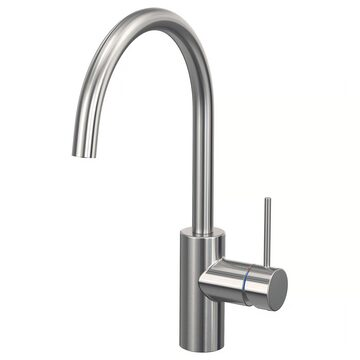
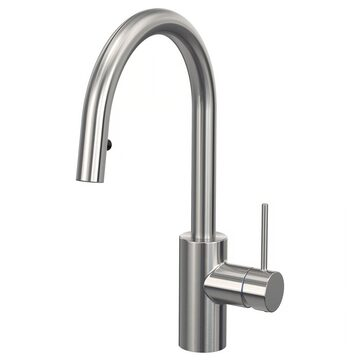
Pokój nauczycielski 16: bateria IKEA SALLSJÖN z wyciąganą wylewką, bez mikrofalówki i oświetlenia LED pod szafkami
SALLSJÖN z wyciąganą wylewką, stalowy (399 zł, promocja; 370 mm, końcówka na ok. 30 cm); zamienniki: SALLSJÖN z natryskiem,
Blanco WEGA-S II. Usunięte: TILLREDA, MITTLED, TRÅDFRI, VÅGDAL (z listy, planu i modelu 3D). Razem 39 pozycji, 36 299,14 zł.

Claude-Session: https://claude.ai/code/session_01FwNcib9nH5pwcS8mELcYCv

Changed region(s): [[0.4889, 0.0611, 0.825, 0.9778], [0.1833, 0.0, 0.5194, 0.5194], [0.4889, 0.7028, 0.5194, 0.9778]]

diff --git a/pokoj16-plan.js b/pokoj16-plan.js
@@ -53,16 +53,12 @@ const C = [
   { k: "nogi", z: "kitchen", name: "IKEA METOD noga szafki 8 cm (opakowanie 2 szt.)", dims: "4 szafki × 4 nogi = 16 szt.", sku: "705.560.67", price: 25, qty: 8, shop: IKEA, url: ip("metod-noga-szafki-70556067"), status: ["ok", "W sprzedaży, na stanie"], noDraw: true },
   { k: "an_zlew", z: "kitchen", name: "IKEA METOD szafka pod zlew, biały/Havstorp beżowy", dims: "60 × 60 cm", sku: "s49455131", price: 340, qty: 1, shop: IKEA, url: ip("metod-szafka-pod-zlew-bialy-havstorp-bezowy-s49455131"), status: ["ok", "W sprzedaży, na stanie"] },
   { k: "zlew", z: "kitchen", name: "IKEA LÅNGUDDEN zlew wpuszczany, 1 komora, stal nierdzewna", dims: "46 × 46 cm", sku: "s59157391", price: 289, qty: 1, shop: IKEA, url: ip("langudden-zlew-wpuszczany-1-komorowy-stal-nierdz-s59157391"), status: ["ok", "W sprzedaży, na stanie"], noDraw: true, alt: [{ name: "VRESJÖN 54 × 44 cm, stal", price: 1079, url: ip("vresjoen-zlew-wpuszczany-1-komora-stal-nierdz-s99425721") }] },
-  { k: "bateria", z: "kitchen", name: "IKEA SALLSJÖN bateria kuchenna z uchwytem z boku, stalowy", dims: "jednouchwytowa", sku: "706.009.04", price: 349, qty: 1, shop: IKEA, url: ip("sallsjoen-bateria-kuchenna-z-uchwytem-z-boku-stalowy-70600904"), status: ["ok", "W sprzedaży, na stanie"], noDraw: true, alt: [{ name: "LAGAN, chrom (najtańsza)", price: 119, url: ip("lagan-bateria-kuchenna-chrom-10085027") }] },
+  { k: "bateria", z: "kitchen", name: "IKEA SALLSJÖN bateria z wyciąganą wylewką, stalowy", dims: "jednouchwytowa, wysokość 370 mm (mieści się pod szafkami wiszącymi), końcówka wyciągana na ok. 30 cm, obrotowa wylewka 120°, otwór 34–37 mm", sku: "906.089.37", price: 399, qty: 1, shop: IKEA, url: ip("sallsjoen-bateria-z-wyciagana-wylewka-stalowy-90608937"), avail: "28.11: w sprzedaży, na stanie; cena promocyjna (regularna 449 zł)", status: ["ok", "W sprzedaży, na stanie"], alt: [{ name: "IKEA SALLSJÖN z wysuwaną wylewką i natryskiem, stalowy (480 mm)", price: 699, url: ip("sallsjoen-bateria-z-wysuwana-wylewka-natrysk-stalowy-50604559") }, { name: "Blanco WEGA-S II z wyciąganą wylewką, chrom (Morele.net)", price: 620.42, url: "https://www.morele.net/bateria-kuchenna-blanco-bateria-wega-s-ii-chromowana-z-wyciagana-wylewka-13479101/" }] },
   { k: "blat", z: "kitchen", name: "IKEA EKBACKEN blat, efekt jasnego dębu / laminat", dims: "246 × 63,5 × 2,8 cm, docinany na 240", sku: "506.338.11", price: 299, qty: 1, shop: IKEA, url: ip("ekbacken-blat-efekt-jasnego-debu-laminat-50633811"), status: ["ok", "W sprzedaży, na stanie"] },
   { k: "panel_sc", z: "kitchen", name: "IKEA LYSEKIL panel ścienny dwustronny, matowy biały / jasnoszary imitacja betonu (między blatem a szafkami wiszącymi)", dims: "119,6 × 55 × 0,2 cm, 2 szt. na 240 cm; przyklejany do ściany (klej montażowy osobno), można przyciąć; szafki wiszące od 145 cm", sku: "106.229.23", price: 199, qty: 2, shop: IKEA, url: ip("lysekil-panel-scienny-2str-jasnoszary-imitacja-betonu-matowy-bialy-10622923"), avail: "28.11: w sprzedaży, na stanie", status: ["ok", "Strona matowa biała do frontów Havstorp; druga strona: beton"], noDraw: true },
   { k: "an_wiszaca", z: "kitchen", name: "IKEA METOD szafka ścienna z półkami, 2 drzwi, biały/Havstorp beżowy", dims: "60 × 100 cm", sku: "s89461328", price: 405, qty: 4, shop: IKEA, url: ip("metod-szafka-scienna-z-polkami-2-drzwi-bialy-havstorp-bezowy-s89461328"), status: ["ok", "W sprzedaży, na stanie"] },
   { k: "cokol", z: "kitchen", name: "IKEA HAVSTORP cokół, beżowy", dims: "220 × 8 cm, 2 szt. na 240 cm", sku: "404.752.56", price: 95, qty: 2, shop: IKEA, url: ip("havstorp-cokol-bezowy-40475256"), status: ["ok", "W sprzedaży, na stanie"], noDraw: true },
   { k: "panel_m", z: "kitchen", name: "IKEA HAVSTORP panel maskujący, beżowy (bok szafki z szufladami)", dims: "39 × 86 cm", sku: "504.752.51", price: 110, qty: 1, shop: IKEA, url: ip("havstorp-panel-maskujacy-bezowy-50475251"), status: ["ok", "W sprzedaży, na stanie"], noDraw: true },
-  { k: "led", z: "kitchen", name: "IKEA MITTLED listwa LED pod szafki, ściemniana, biały", dims: "60 cm", sku: "605.285.84", price: 65, qty: 4, shop: IKEA, url: ip("mittled-listwa-oswietleniowa-led-do-bl-kuch-mozna-przyciemniac-bialy-60528584"), status: ["ok", "W sprzedaży, na stanie"], noDraw: true },
-  { k: "led_zas", z: "kitchen", name: "IKEA TRÅDFRI zasilacz 30 W do oświetlenia LED", dims: "do 9 listew", sku: "603.426.56", price: 130, qty: 1, shop: IKEA, url: ip("tradfri-zasilacz-do-sterowania-bezprzewod-smart-szary-60342656"), status: ["warn", "Dobrać przewód zasilający w sklepie"], noDraw: true },
-  { k: "led_kabel", z: "kitchen", name: "IKEA VÅGDAL przewód połączeniowy, biały", dims: "3,5 m", sku: "704.636.00", price: 15, qty: 2, shop: IKEA, url: ip("vagdal-przewod-polaczeniowy-bialy-70463600"), status: ["ok", "W sprzedaży, na stanie"], noDraw: true },
-  { k: "mikrofala", z: "kitchen", name: "IKEA TILLREDA kuchenka mikrofalowa wolnostojąca, biały", dims: "20 l, 700 W", sku: "504.867.92", price: 249, qty: 1, shop: IKEA, url: ip("tillreda-kuchenka-mikrofalowa-bialy-50486792"), status: ["ok", "W sprzedaży, na stanie"] },
   { k: "lodowka", z: "kitchen", name: "Lodówka wolnostojąca, szer. 60 cm", dims: "60 × 65 × ok. 220 cm, szara, zawiasy po stronie aneksu", qty: 1, status: ["mute", "Nie kupujemy w tym zakupie"], outside: true },
   { k: "stol_jad", z: "dining", name: "IKEA MITTZON stół konferencyjny, okleina dębowa / czarny, 140 × 68 cm, jednolity blat", dims: "140 × 68 × 75 cm, ten sam model co stół roboczy; 4 szt. zestawione w blok 280 × 136 cm, 8 miejsc (bez krzeseł na szczytach)", sku: "s39513952", price: 649, qty: 4, shop: IKEA, url: ip("mittzon-stol-konferencyjny-okl-deb-czarny-s39513952"), status: ["ok", "W sprzedaży, na stanie"] },
   { k: "krz_jad", z: "dining", name: "IKEA LÄKTARE krzesło konferencyjne, średnioszary / biały", dims: "55 × 50 × 84 cm, podłokietniki, siedzisko z okleiną brzozową, pokrycie Gunnared do prania, sztaplowane (do 5 szt.), 8 przy stole jadalni", sku: "s49503250", price: 299, qty: 8, shop: IKEA, url: ip("laektare-krzeslo-konferencyjne-srednioszary-bialy-s49503250"), status: ["ok", "W jadalni, w sprzedaży, na stanie"] },
@@ -134,7 +130,6 @@ add("an_polki", { x: 780, y: 0, w: 60, d: 60, h: 86, kind: "box", label: "Półk
 add("an_zlew", { x: 840, y: 0, w: 60, d: 60, h: 86, kind: "box", label: "Zlew" });
 add("blat", { x: 660, y: 0, w: 240, d: 63, h: 4, z: 86, kind: "box", hidePlan: true });
 add("panel_sc", { x: 660, y: 0, w: 240, d: 0.6, h: 55, z: 90, kind: "box", hidePlan: true });
-add("mikrofala", { x: 728, y: 4, w: 45, d: 34, h: 26, z: 90, kind: "box", ontop: true });
 [660, 720, 780, 840].forEach((x) => add("an_wiszaca", { x, y: 0, w: 60, d: 37, h: 100, z: 145, kind: "box", above: true }));
 add("stol_pracy", { x: 240, y: 252, w: 140, d: 68, h: 75, kind: "table", label: "Stół roboczy · 8" });
 add("stol_pracy", { x: 380, y: 252, w: 140, d: 68, h: 75, kind: "table" });
@@ -175,8 +170,8 @@ const INST = [
   { t: "p230", x: 500, y: 0, z: 110, txt: "Stół do kompletowania TROTTEN, nad blatem", spec: "Gniazdo podwójne 230 V (bindownica, zszywacz, skaner)" },
   { t: "p230", x: 480, y: 0, z: 30, txt: "Stół do kompletowania, pod blatem", spec: "Gniazdo podwójne 230 V (zasilacze laptopów w szafce, niszczarka)" },
   { t: "p230", x: 630, y: 0, z: 30, txt: "Lodówka, za lodówką", spec: "Gniazdo podwójne 230 V, osobny obwód (płaskie, żeby lodówka stała blisko ściany)" },
-  { t: "p230", x: 680, y: 0, z: 110, txt: "Aneks, nad blatem (mikrofalówka)", spec: "Gniazdo podwójne 230 V, obwód kuchenny 16 A" },
-  { t: "p230", x: 750, y: 0, z: 110, txt: "Aneks, nad blatem (mikrofalówka)", spec: "Gniazdo podwójne 230 V, obwód kuchenny" },
+  { t: "p230", x: 680, y: 0, z: 110, txt: "Aneks, nad blatem", spec: "Gniazdo podwójne 230 V, obwód kuchenny 16 A" },
+  { t: "p230", x: 750, y: 0, z: 110, txt: "Aneks, nad blatem", spec: "Gniazdo podwójne 230 V, obwód kuchenny" },
   { t: "p230", x: 810, y: 0, z: 30, txt: "Rezerwa w szafce aneksu (miejsce po zmywarce)", spec: "Gniazdo podwójne 230 V, osobny obwód 16 A" },
   { t: "p230", x: 0, y: 335, z: 95, txt: "Biurko 1, nad blatem", spec: "Gniazdo podwójne 230 V na ścianie nad blatem (laptop, lampka, ładowarka)" },
   { t: "p230", x: 0, y: 435, z: 95, txt: "Biurko 2, nad blatem", spec: "Gniazdo podwójne 230 V na ścianie nad blatem (laptop, lampka, ładowarka)" },
@@ -606,7 +601,7 @@ function drawElev(key) {
   txt(elev, W.len, -22, W.right, "wtxt", { "text-anchor": "end" });
   txt(elev, W.len / 2, -22, W.title, "lbl", { "text-anchor": "middle" });
   const notes = {
-    N: "Przy szafach skrytkowych tablica na klucze do sal (ok. 70 × 50 cm). Drzwi otwierają się na zewnątrz, w prawo. Nad bizhubem i stołem do kompletowania tablica magnetyczna ok. 200 × 100 cm (dół 165 cm). Tuż przy drzwiach ekran dotykowy 27″ zawieszony w pionie na stałym płaskim uchwycie 1,2 cm od ściany (dół 100 cm, góra 161 cm), stabilny przy dotyku, komputer Lenovo M70s stoi na regale EKET pod stołem do kompletowania, do ekranu biegną w listwie kabel DisplayPort i przedłużacz USB (po 5 m). Obok bizhub C450i z finiszerem FS-539SD; po prawej 34 cm zapasu na tacę boczną, w tym miejscu niszczarka Fellowes 99Ci (64 cm, poniżej tacy). Stół do kompletowania TROTTEN 120 × 70 z elektryczną regulacją (ok. 95 cm), pod nim regał EKET z 4 otwartymi przegrodami na nóżkach (80 cm) na papier, tonery i laptopy. Lodówka 60 cm oddziela strefę druku od aneksu 240 cm. Na blacie mikrofalówka; między blatem a szafkami wiszącymi panel LYSEKIL (matowy biały, 55 cm); szafki wiszące 4 × 60, dół 145 cm, góra 245 cm.",
+    N: "Przy szafach skrytkowych tablica na klucze do sal (ok. 70 × 50 cm). Drzwi otwierają się na zewnątrz, w prawo. Nad bizhubem i stołem do kompletowania tablica magnetyczna ok. 200 × 100 cm (dół 165 cm). Tuż przy drzwiach ekran dotykowy 27″ zawieszony w pionie na stałym płaskim uchwycie 1,2 cm od ściany (dół 100 cm, góra 161 cm), stabilny przy dotyku, komputer Lenovo M70s stoi na regale EKET pod stołem do kompletowania, do ekranu biegną w listwie kabel DisplayPort i przedłużacz USB (po 5 m). Obok bizhub C450i z finiszerem FS-539SD; po prawej 34 cm zapasu na tacę boczną, w tym miejscu niszczarka Fellowes 99Ci (64 cm, poniżej tacy). Stół do kompletowania TROTTEN 120 × 70 z elektryczną regulacją (ok. 95 cm), pod nim regał EKET z 4 otwartymi przegrodami na nóżkach (80 cm) na papier, tonery i laptopy. Lodówka 60 cm oddziela strefę druku od aneksu 240 cm. między blatem a szafkami wiszącymi panel LYSEKIL (matowy biały, 55 cm); szafki wiszące 4 × 60, dół 145 cm, góra 245 cm.",
     W: "Nad biurkami tablica magnetyczna ok. 200 × 100 cm z kartkami (dół 110 cm). Dwa biurka BOLLPOJKE 90 × 55 cm (sosna, biała rama), na każdym lampa TERTIAL i podstawka STENERIK pod laptop; przy każdym biurku podwójne gniazdo 230 V na ścianie (95 cm). Ekrany akustyczne MITTZON 70 × 72 cm na zaciskach: jeden między szafami skrytkowymi a biurkiem 1, drugi między biurkami. Od biurka 2 do Xeroxa 52 cm odstępu. Ścianka MITTZON na kółkach (dół ekran akustyczny, góra tablica) jest wsunięta między stół do kompletowania a lodówkę i oddziela strefę druku od aneksu. Obok biurek Xerox B7130 (77 cm, bez podstawy KSW: na podłodze albo na własnej podstawie szkoły, do ustalenia). Trzy szafy skrytkowe KAROL 90 × 40 × 185 cm, po 18 skrytek (3 × 6), razem 54.",
     S: "Okna we wnękach: parapet na 90 cm, głębokość wnęki ok. 40 cm, na parapetach doniczki; na filarach między oknami małe tablice ogłoszeń (dół 145 cm), a nad nimi wysoko wiszące doniczki; w narożniku przy krzesłach tablica 80 × 60 cm. Sofy EKTORP (88 cm) poniżej parapetu, przed grzejnikami min. 15 cm odstępu.",
     E: "Ściana za jadalnią: białe pole pod obraz z rzutnika (ok. 260 × 146 cm, od 190 do 336 cm) na osi stołu, po obu bokach wąskie pasy roślin z długimi zwisającymi pędami. W narożniku przy oknie 4 dodatkowe krzesła LÄKTARE (2 stosy po 2), nad nimi na filarze tablica ogłoszeń. Ściany w ciepłym beżu, sala ok. 450 cm wysokości.",
@@ -666,7 +661,7 @@ function costTable() {
     <div><dt>W tym IKEA</dt><dd>${fmt(sumIkea)}<small>jedno zamówienie, można poprosić IKEA dla Firm o fakturę i montaż</small></dd></div>
     <div><dt>W tym inne sklepy</dt><dd>${fmt(sum - sumIkea)}<small>szafy skrytkowe (Kupmeble), komputer (AMSO Wrocław), ekran, uchwyt, kable i niszczarka (Morele), tablice magnetyczne i korkowe (Castorama)</small></dd></div>
     <div><dt>W tym centrum dowodzenia</dt><dd>${fmt(C.filter((c) => c.z === "cmd").reduce((s, c) => s + c.price * c.qty, 0))}<small>ekran dotykowy 27″ Full HD na stałym uchwycie, komputer poleasingowy Lenovo M70s, kable DisplayPort, USB i HDMI</small></dd></div>
-    <div><dt>W tym aneks kuchenny</dt><dd>${fmt(kitchen)}<small>4 szafki dolne i 4 wiszące, blat 240, zlew, bateria, LED, mikrofalówka</small></dd></div>`;
+    <div><dt>W tym aneks kuchenny</dt><dd>${fmt(kitchen)}<small>4 szafki dolne i 4 wiszące, blat 240 z panelem LYSEKIL, zlew, bateria z wyciąganą wylewką</small></dd></div>`;
 }
 costTable();
 
@@ -1413,7 +1408,6 @@ I.forEach((it) => {
   }
   if (it.k === "przegroda") { m.position.y += 0.01; [it.x + 8, it.x + 44].forEach((bx) => { box(bx, it.y - 1.5, it.z - 4, 4, it.d + 3, 5, blackMetal, furniture, null, false); }); }
   if (it.k === "an_zlew") { box(it.x + 10, it.y + 12, 89.6, 42, 36, 1, mat(0xb8c0c3, { metalness: 0.6, roughness: 0.3 }), furniture, it, false); const tap = new THREE.Mesh(new THREE.CylinderGeometry(0.014, 0.018, 0.3, 16), steel); tap.position.copy(P(it.x + 31.5, it.y + 6, 105)); tap.castShadow = true; furniture.add(tap); const sp = new THREE.Mesh(new THREE.TorusGeometry(0.07, 0.011, 10, 24, Math.PI), steel); sp.position.copy(P(it.x + 31.5, it.y + 13, 120)); sp.rotation.y = Math.PI / 2; furniture.add(sp); }
-  if (it.k === "an_wiszaca") box(it.x, it.y + it.d - 6, it.z - 1, it.w, 5, 1, mat(0xfff3cf, { emissive: 0xffe9b0, emissiveIntensity: 0.9 }), furniture, null, false);
 
 });
 // ramki gniazd na ścianach (punkty instalacyjne)

diff --git a/pokoj16-data.js b/pokoj16-data.js
@@ -281,18 +281,23 @@ export const pokoj16 = {
     {
       "id": "bateria",
       "grupa": "Aneks kuchenny (lodówka i zmywarka poza zakupem)",
-      "rodzaj": "Bateria kuchenna",
-      "nazwa": "IKEA SALLSJÖN bateria kuchenna z uchwytem z boku, stalowy",
+      "rodzaj": "Bateria kuchenna z wyciąganą wylewką",
+      "nazwa": "IKEA SALLSJÖN bateria z wyciąganą wylewką, stalowy",
       "ilosc": 1,
-      "cena_szt": 349,
+      "cena_szt": 399,
       "sklep": "IKEA (Wrocław Bielany / ikea.com/pl)",
-      "link": "https://www.ikea.com/pl/pl/p/sallsjoen-bateria-kuchenna-z-uchwytem-z-boku-stalowy-70600904/",
-      "uwagi": "W sprzedaży, na stanie",
+      "link": "https://www.ikea.com/pl/pl/p/sallsjoen-bateria-z-wyciagana-wylewka-stalowy-90608937/",
+      "uwagi": "Końcówkę wyciąga się na ok. 30 cm; wysokość 370 mm, mieści się pod szafkami wiszącymi; cena promocyjna z 28.11.2026 (regularna 449 zł)",
       "zamienniki": [
         {
-          "nazwa": "LAGAN, chrom (najtańsza)",
-          "cena": 119,
-          "link": "https://www.ikea.com/pl/pl/p/lagan-bateria-kuchenna-chrom-10085027/"
+          "nazwa": "IKEA SALLSJÖN z wysuwaną wylewką i natryskiem, stalowy (480 mm)",
+          "cena": 699,
+          "link": "https://www.ikea.com/pl/pl/p/sallsjoen-bateria-z-wysuwana-wylewka-natrysk-stalowy-50604559/"
+        },
+        {
+          "nazwa": "Blanco WEGA-S II z wyciąganą wylewką, chrom (Morele.net)",
+          "cena": 620.42,
+          "link": "https://www.morele.net/bateria-kuchenna-blanco-bateria-wega-s-ii-chromowana-z-wyciagana-wylewka-13479101/"
         }
       ],
       "zdjecie": "assets/pokoj16/bateria.jpg"
@@ -356,54 +361,6 @@ export const pokoj16 = {
       "link": "https://www.ikea.com/pl/pl/p/havstorp-panel-maskujacy-bezowy-50475251/",
       "uwagi": "W sprzedaży, na stanie",
       "zdjecie": "assets/pokoj16/panel_m.jpg"
-    },
-    {
-      "id": "led",
-      "grupa": "Aneks kuchenny (lodówka i zmywarka poza zakupem)",
-      "rodzaj": "Listwa LED",
-      "nazwa": "IKEA MITTLED listwa LED pod szafki, ściemniana, biały",
-      "ilosc": 4,
-      "cena_szt": 65,
-      "sklep": "IKEA (Wrocław Bielany / ikea.com/pl)",
-      "link": "https://www.ikea.com/pl/pl/p/mittled-listwa-oswietleniowa-led-do-bl-kuch-mozna-przyciemniac-bialy-60528584/",
-      "uwagi": "W sprzedaży, na stanie",
-      "zdjecie": "assets/pokoj16/led.jpg"
-    },
-    {
-      "id": "led_zas",
-      "grupa": "Aneks kuchenny (lodówka i zmywarka poza zakupem)",
-      "rodzaj": "Zasilacz do listew LED",
-      "nazwa": "IKEA TRÅDFRI zasilacz 30 W do oświetlenia LED",
-      "ilosc": 1,
-      "cena_szt": 130,
-      "sklep": "IKEA (Wrocław Bielany / ikea.com/pl)",
-      "link": "https://www.ikea.com/pl/pl/p/tradfri-zasilacz-do-sterowania-bezprzewod-smart-szary-60342656/",
-      "uwagi": "Dobrać przewód zasilający w sklepie",
-      "zdjecie": "assets/pokoj16/led_zas.jpg"
-    },
-    {
-      "id": "led_kabel",
-      "grupa": "Aneks kuchenny (lodówka i zmywarka poza zakupem)",
-      "rodzaj": "Przewód do listew LED",
-      "nazwa": "IKEA VÅGDAL przewód połączeniowy, biały",
-      "ilosc": 2,
-      "cena_szt": 15,
-      "sklep": "IKEA (Wrocław Bielany / ikea.com/pl)",
-      "link": "https://www.ikea.com/pl/pl/p/vagdal-przewod-polaczeniowy-bialy-70463600/",
-      "uwagi": "W sprzedaży, na stanie",
-      "zdjecie": "assets/pokoj16/led_kabel.jpg"
-    },
-    {
-      "id": "mikrofala",
-      "grupa": "Aneks kuchenny (lodówka i zmywarka poza zakupem)",
-      "rodzaj": "Kuchenka mikrofalowa",
-      "nazwa": "IKEA TILLREDA kuchenka mikrofalowa wolnostojąca, biały",
-      "ilosc": 1,
-      "cena_szt": 249,
-      "sklep": "IKEA (Wrocław Bielany / ikea.com/pl)",
-      "link": "https://www.ikea.com/pl/pl/p/tillreda-kuchenka-mikrofalowa-bialy-50486792/",
-      "uwagi": "W sprzedaży, na stanie",
-      "zdjecie": "assets/pokoj16/mikrofala.jpg"
     },
     {
       "id": "stol_jad",

diff --git a/index.html b/index.html
@@ -20,8 +20,8 @@
     <title>Sprzęt i wyposażenie sal | ZSZ nr 5</title>
     <link rel="canonical" href="https://sprzet.szkolamistrzow.info/" />
     <link rel="icon" href="assets/logo-zsz5.png" />
-    <link rel="stylesheet" href="styles.css?v=202611281443" />
-    <link rel="stylesheet" href="pokoj16-plan.css?v=202611281443" />
+    <link rel="stylesheet" href="styles.css?v=202611281450" />
+    <link rel="stylesheet" href="pokoj16-plan.css?v=202611281450" />
   </head>
   <body>
     <a class="skip-link" href="#roomDetail">Przejdź do karty sali</a>
@@ -314,7 +314,7 @@
             <div class="check-box">
               <h3>Sprawdzenie dostępności, 24.11.2026</h3>
               <ul>
-                <li>IKEA, 28.11.2026: panele LYSEKIL nad blat, regał EKET z nóżkami, druga szafka METOD z półkami (zamiast zmywarki), ścianka MITTZON z tablicą, ekrany MITTZON na biurka, biurka BOLLPOJKE, lampy TERTIAL i podstawki STENERIK są w sprzedaży i na stanie w sklepie internetowym.</li>
+                <li>IKEA, 28.11.2026: panele LYSEKIL nad blat, bateria SALLSJÖN z wyciąganą wylewką, regał EKET z nóżkami, druga szafka METOD z półkami (zamiast zmywarki), ścianka MITTZON z tablicą, ekrany MITTZON na biurka, biurka BOLLPOJKE, lampy TERTIAL i podstawki STENERIK są w sprzedaży i na stanie w sklepie internetowym.</li>
                 <li>IKEA: wszystkie pozycje z listy (28 produktów razem z zamiennikami) są w aktualnej ofercie, żadna nie jest wycofana ani oznaczona jako wyprzedana. Sklep internetowy pokazuje wysoki stan magazynowy każdej z nich.</li>
                 <li>IKEA Wrocław Bielany: stanów konkretnego sklepu nie dało się odczytać automatycznie. Przed zamówieniem otwórz link produktu, wybierz sklep Wrocław i sprawdź całe ilości (np. 22 × LÄKTARE) albo zamów przez IKEA dla Firm z dostawą.</li>
                 <li>Szafy skrytkowe KAROL (Kupmeble): na magazynie, wysyłka w 48 h, gwarancja 10 lat.</li>
@@ -385,7 +385,7 @@
                   <li>Komputer poleasingowy Lenovo ThinkCentre M70s SFF (AMSO Wrocław, Grabiszyńska 240, od ręki): DisplayPort do ekranu dotykowego, HDMI do monitora na korytarzu. Stoi na regale EKET pod stołem do kompletowania; do ekranu kabel DisplayPort i aktywny przedłużacz USB (po 5 m) w listwie. Ma Windows 11 Home: jeśli komputer ma być w domenie szkoły, potrzebna jest aktualizacja do Pro.</li>
                   <li>Duża drukarka: rzut przyjmuje bizhub C450i z kasetą PC-x16 i finiszerem FS-539SD (razem 116 × 69 cm, z tacami i tacą boczną ok. 160 cm szerokości). Potwierdzić z Copytec konfigurację i miejsce na kable (4 cm od ściany).</li>
                   <li>Xerox B7130 bez podstawy KSW: ustalić, czy stoi na podłodze, czy na własnej podstawie szkoły (wtedy skaner jest na ok. 112 cm).</li>
-                  <li>Bateria: SALLSJÖN (349 zł) czy najtańsza LAGAN (119 zł).</li>
+                  <li>Bateria IKEA SALLSJÖN z wyciąganą wylewką: cena 399 zł jest promocyjna (28.11.2026, regularna 449 zł). Jeśli wąż wylewki nie chowa się sam, sprawdzić prowadzenie wężyków pod zlewem.</li>
                   <li>Sofy: 2 × EKTORP 3-osobowa Hakebo ciemnoszary; pokrycia zdejmowane, można dokupić zapasowe.</li>
                 </ol>
               </div>
@@ -414,6 +414,6 @@
 
     <section class="print-sheet" id="printSheet" aria-hidden="true"></section>
 
-    <script type="module" src="app.js?v=202611281443"></script>
+    <script type="module" src="app.js?v=202611281450"></script>
   </body>
 </html>

diff --git a/tests/app.spec.js b/tests/app.spec.js
@@ -1627,7 +1627,7 @@ test("nis2-data: daty są poprawne i identyfikatory unikalne", async ({ page }) 
 test("pokój nauczycielski 16: każda pozycja listy zakupów ma zdjęcie poglądowe", async ({ page }) => {
   await page.goto("/#pokoj-nauczycielski-16");
   const photos = page.locator("#room16List .r16-photo img");
-  await expect(photos).toHaveCount(43);
+  await expect(photos).toHaveCount(39);
   await expect(page.locator("#room16List .r16-photo.is-empty")).toHaveCount(0);
   const broken = await photos.evaluateAll(async (images) => {
     await Promise.all(images.map((image) => { image.loading = "eager"; return image.decode().catch(() => {}); }));
@@ -1638,7 +1638,7 @@ test("pokój nauczycielski 16: każda pozycja listy zakupów ma zdjęcie pogląd
   // Plan sali jest częścią strony (bez ramki), zestawienie na planie też ma zdjęcia.
   await expect(page.locator("#room16View iframe")).toHaveCount(0);
   const planPhotos = page.locator("#pn16 #list-table .photo img");
-  await expect(planPhotos).toHaveCount(43);
+  await expect(planPhotos).toHaveCount(39);
   await expect(page.locator("#pn16 #plan g.item").first()).toBeAttached();
   const planBroken = await planPhotos.evaluateAll(async (images) => {
     await Promise.all(images.map((image) => { image.loading = "eager"; return image.decode().catch(() => {}); }));

diff --git a/app.js b/app.js
@@ -15,9 +15,9 @@ import {
   standardControlTasks,
   statusLabels,
   unresolvedItems,
-} from "./equipment-data.js?v=202611281443";
-import { zakupyListopad } from "./zakupy-data.js?v=202611281443";
-import { pokoj16 } from "./pokoj16-data.js?v=202611281443";
+} from "./equipment-data.js?v=202611281450";
+import { zakupyListopad } from "./zakupy-data.js?v=202611281450";
+import { pokoj16 } from "./pokoj16-data.js?v=202611281450";
 import {
   nis2Annex,
   nis2Deadlines,
@@ -30,7 +30,7 @@ import {
   nis2Sources,
   nis2Summary,
   nis2Updated,
-} from "./nis2-data.js?v=202611281443";
+} from "./nis2-data.js?v=202611281450";
 
 const els = {
   stats: document.querySelector("#stats"),
@@ -1034,7 +1034,7 @@ const r16Total = (items) => items.reduce((sum, item) => sum + r16Value(item), 0)
 
 // Zdjęcie poglądowe z oferty (pole zdjecie, uzupełniane skryptem tools/fetch-product-images.mjs); bez zdjęcia: link do oferty.
 // Znacznik wersji plików (zmienia go tools/bump-version.mjs), żeby po publikacji przeglądarka nie brała starych plików z pamięci podręcznej.
-const ASSET_VERSION = "202611281443";
+const ASSET_VERSION = "202611281450";
 const withVersion = (url) => `${url}?v=${ASSET_VERSION}`;
 
 const r16Photo = (item) => (item.zdjecie
